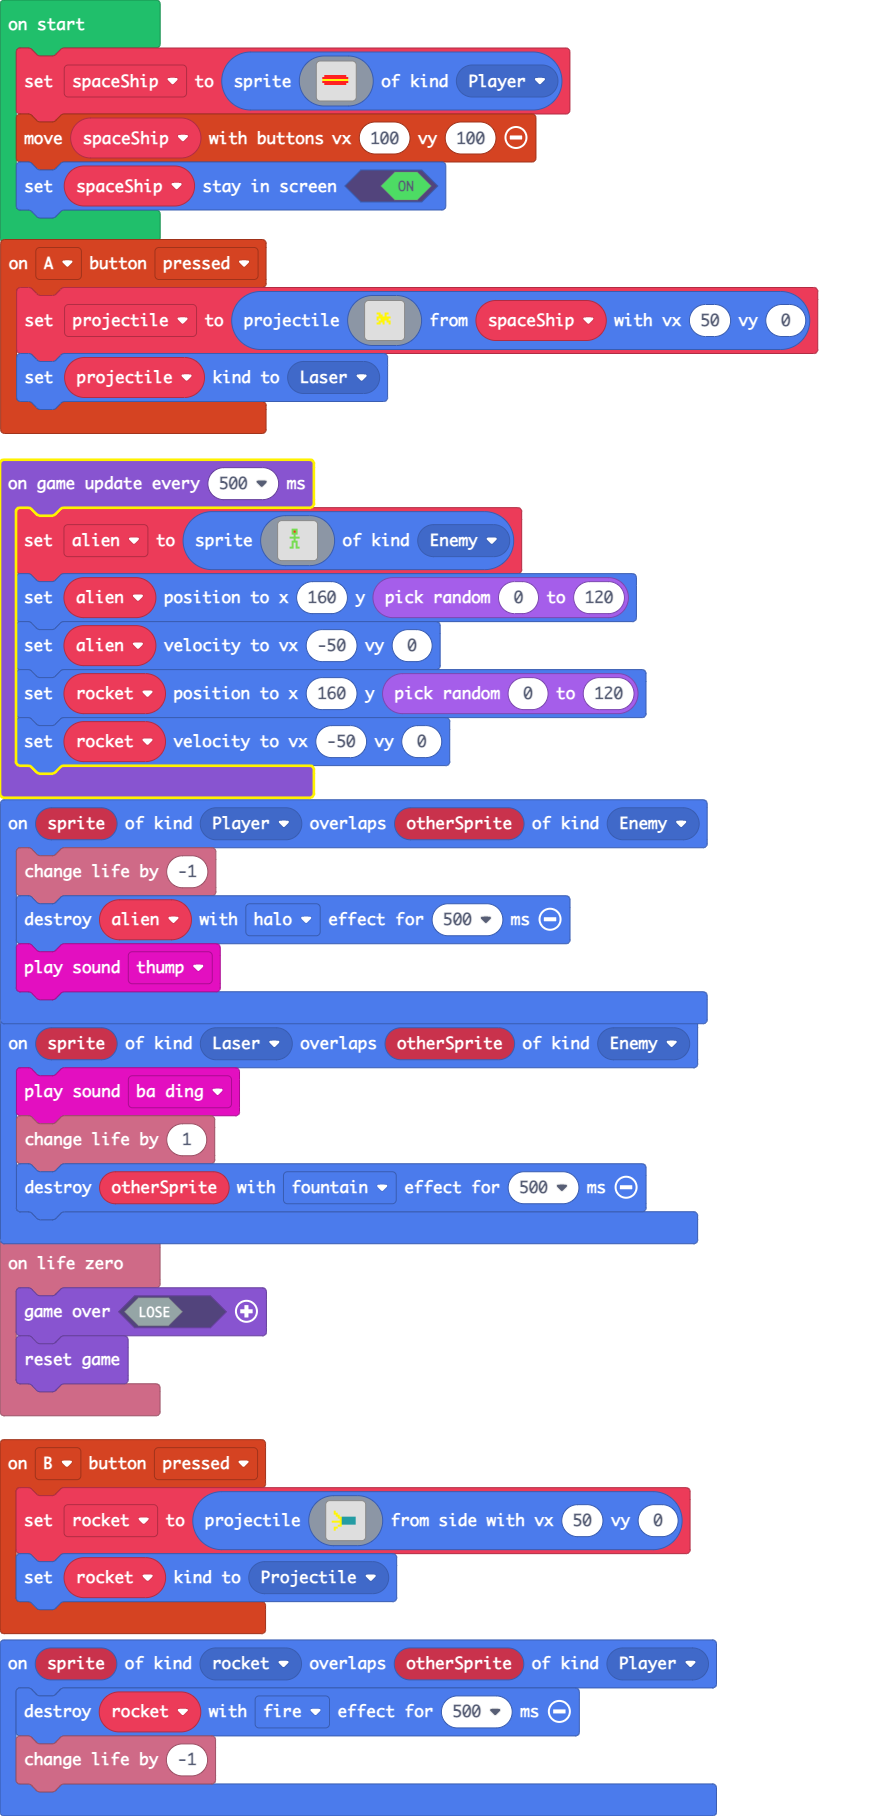
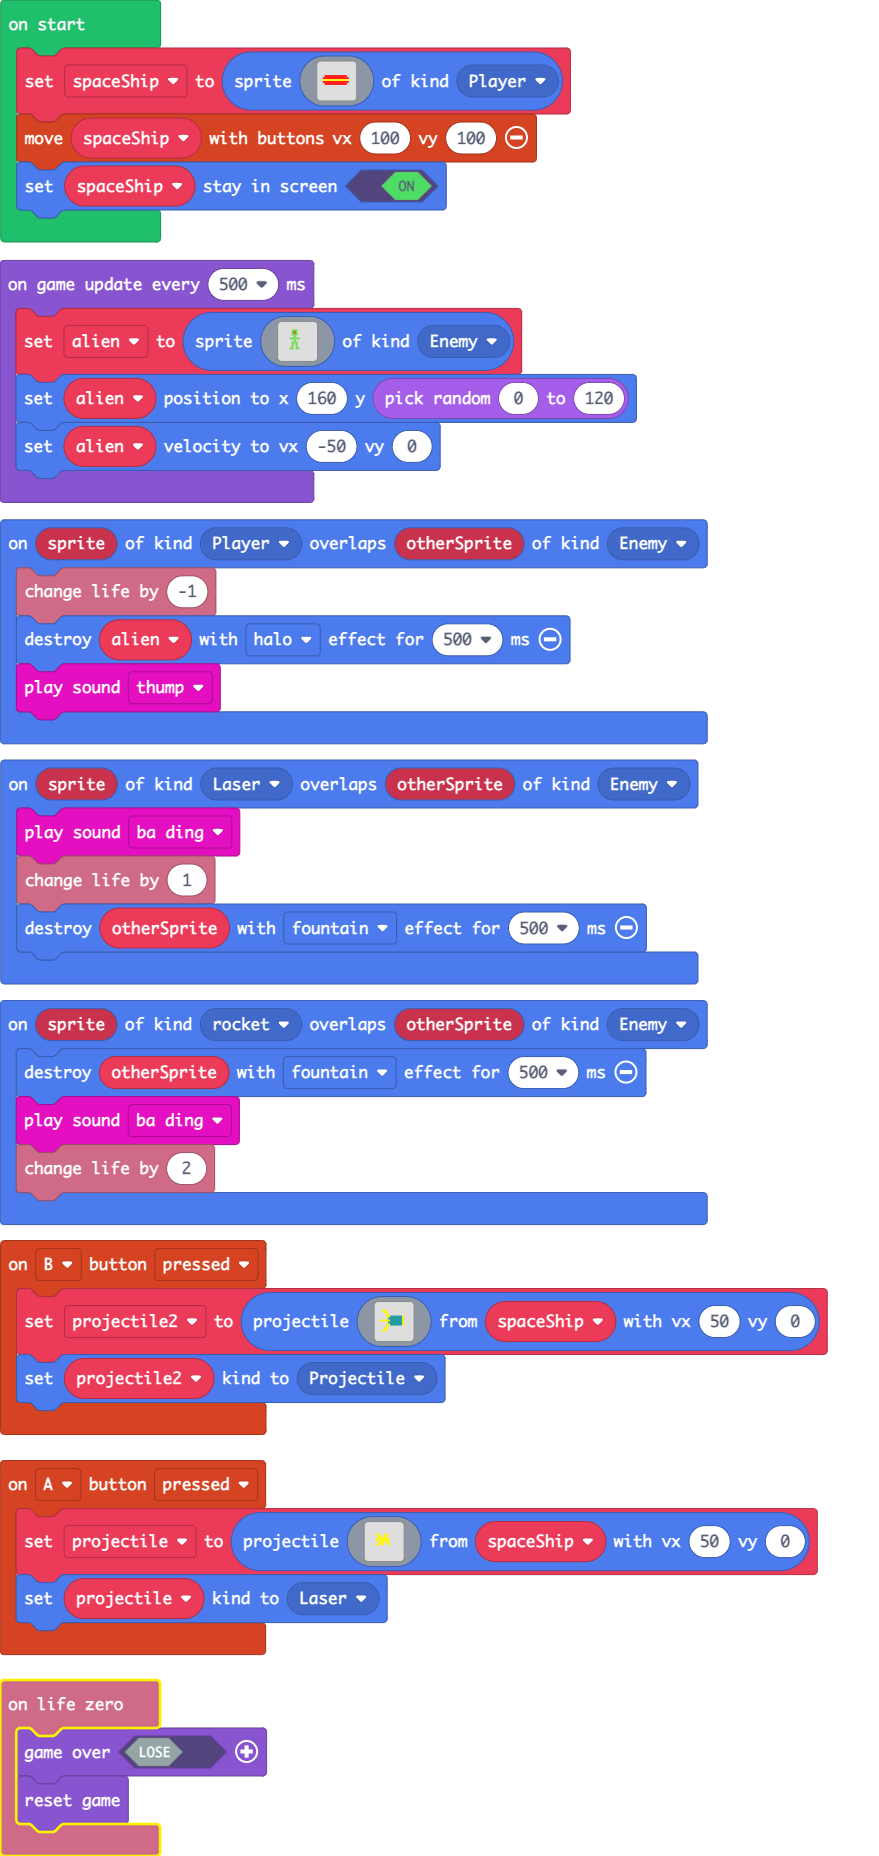
Update main.blocks, main.ts

diff --git a/main.ts b/main.ts
@@ -3,25 +3,25 @@ namespace SpriteKind {
     export const rocket = SpriteKind.create()
 }
 controller.B.onEvent(ControllerButtonEvent.Pressed, function () {
-    rocket = sprites.createProjectileFromSide(img`
+    projectile2 = sprites.createProjectileFromSprite(img`
         . . . . . . . . . . . . . . . . 
         . . . . . . . . . . . . . . . . 
-        . . . . . . . . . . . . . . . . 
-        . . 5 . . . . . . . . . . . . . 
         . . 5 5 . . . . . . . . . . . . 
         . . . 5 5 . . . . . . . . . . . 
-        . . . . 5 5 6 6 6 6 6 6 6 . . . 
-        . . . . . 5 6 6 6 6 6 6 6 . . . 
-        . 5 5 5 5 5 6 6 6 6 6 6 6 . . . 
-        . . . . . 5 6 6 6 6 6 6 6 . . . 
-        . . . . 5 5 . . . . . . . . . . 
+        . . . . 5 . . . . . . . . . . . 
+        . . . . 5 5 6 6 6 6 6 6 5 . . . 
+        . . . . . 6 6 6 6 6 6 6 5 . . . 
+        . 5 5 5 5 5 6 6 6 6 6 6 5 . . . 
+        . . . . . 6 6 6 6 6 6 6 5 . . . 
+        . . . . 5 5 6 6 6 6 6 6 5 . . . 
+        . . . . 5 . . . . . . . . . . . 
+        . . . 5 5 . . . . . . . . . . . 
         . . 5 5 . . . . . . . . . . . . 
-        . . 5 . . . . . . . . . . . . . 
         . . . . . . . . . . . . . . . . 
         . . . . . . . . . . . . . . . . 
         . . . . . . . . . . . . . . . . 
-        `, 50, 0)
-    rocket.setKind(SpriteKind.Projectile)
+        `, spaceShip, 50, 0)
+    projectile2.setKind(SpriteKind.Projectile)
 })
 controller.A.onEvent(ControllerButtonEvent.Pressed, function () {
     projectile = sprites.createProjectileFromSprite(img`
@@ -53,9 +53,10 @@ info.onLifeZero(function () {
     game.over(false)
     game.reset()
 })
-sprites.onOverlap(SpriteKind.rocket, SpriteKind.Player, function (sprite, otherSprite) {
-    rocket.destroy(effects.fire, 500)
-    info.changeLifeBy(-1)
+sprites.onOverlap(SpriteKind.rocket, SpriteKind.Enemy, function (sprite, otherSprite) {
+    otherSprite.destroy(effects.fountain, 500)
+    music.baDing.play()
+    info.changeLifeBy(2)
 })
 sprites.onOverlap(SpriteKind.Player, SpriteKind.Enemy, function (sprite, otherSprite) {
     info.changeLifeBy(-1)
@@ -64,7 +65,7 @@ sprites.onOverlap(SpriteKind.Player, SpriteKind.Enemy, function (sprite, otherSp
 })
 let alien: Sprite = null
 let projectile: Sprite = null
-let rocket: Sprite = null
+let projectile2: Sprite = null
 let spaceShip: Sprite = null
 spaceShip = sprites.create(img`
     . . . . . . . . . . . . . . . . 
@@ -107,6 +108,4 @@ game.onUpdateInterval(500, function () {
         `, SpriteKind.Enemy)
     alien.setPosition(160, randint(0, 120))
     alien.setVelocity(-50, 0)
-    rocket.setPosition(160, randint(0, 120))
-    rocket.setVelocity(-50, 0)
 })
